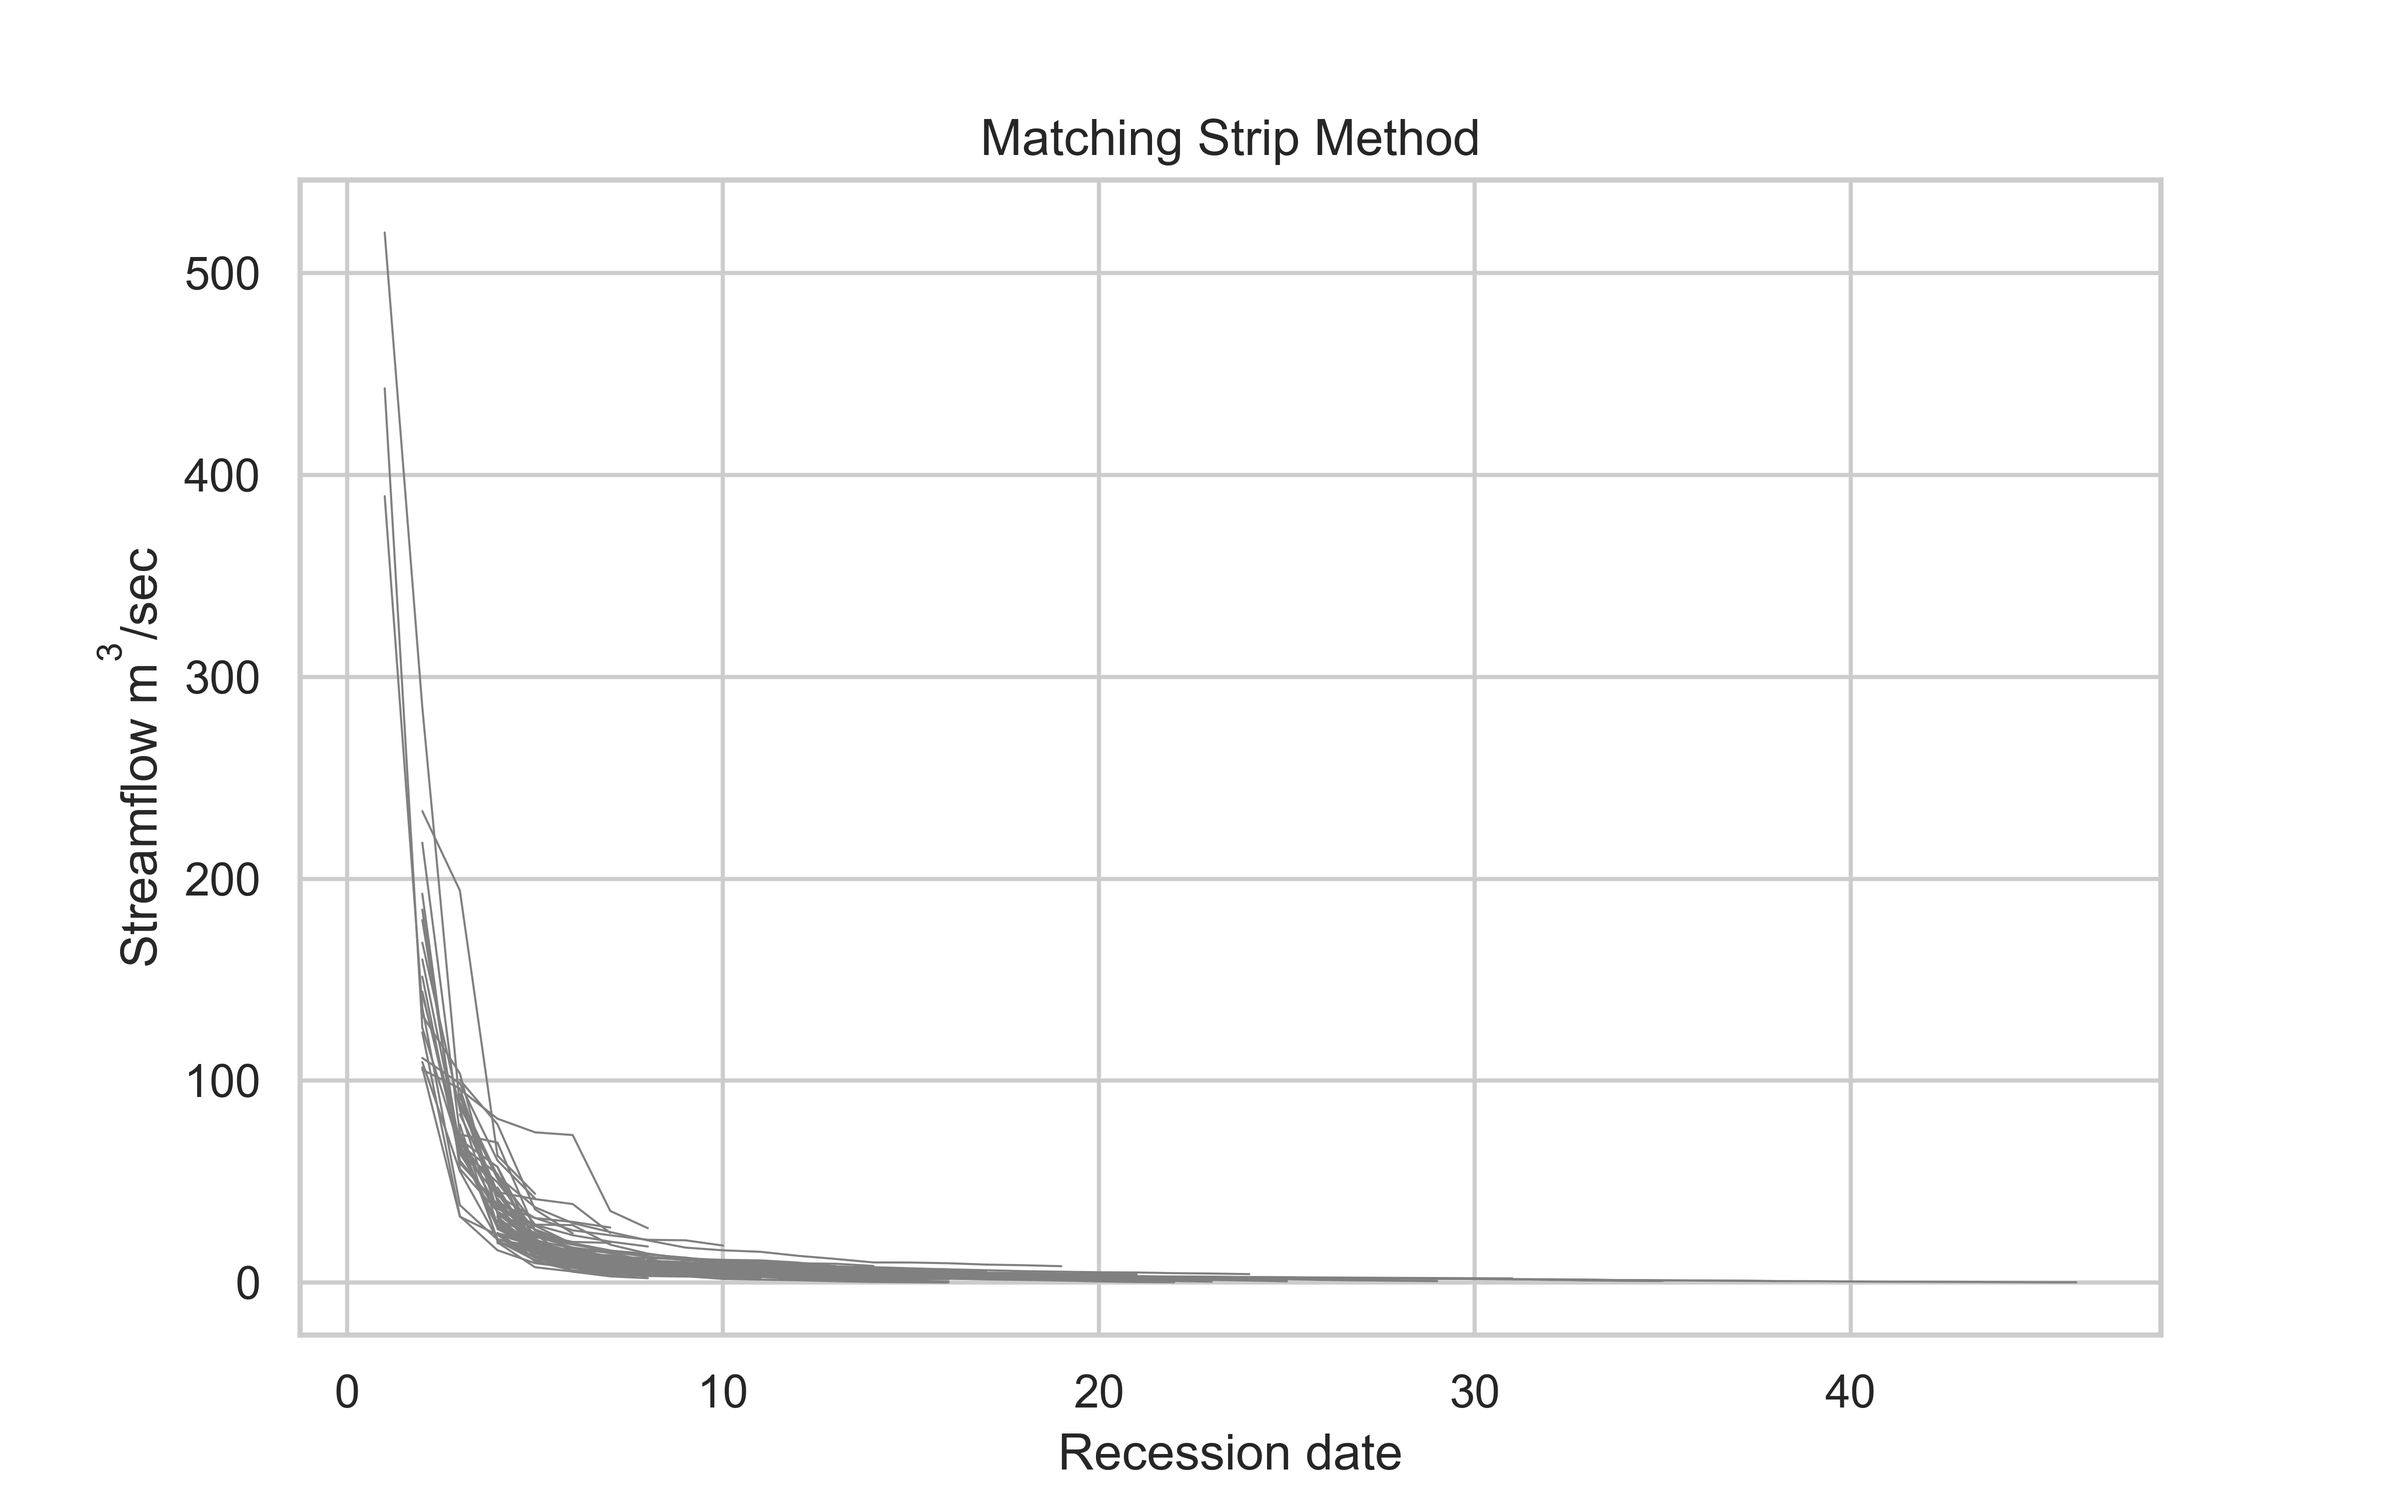
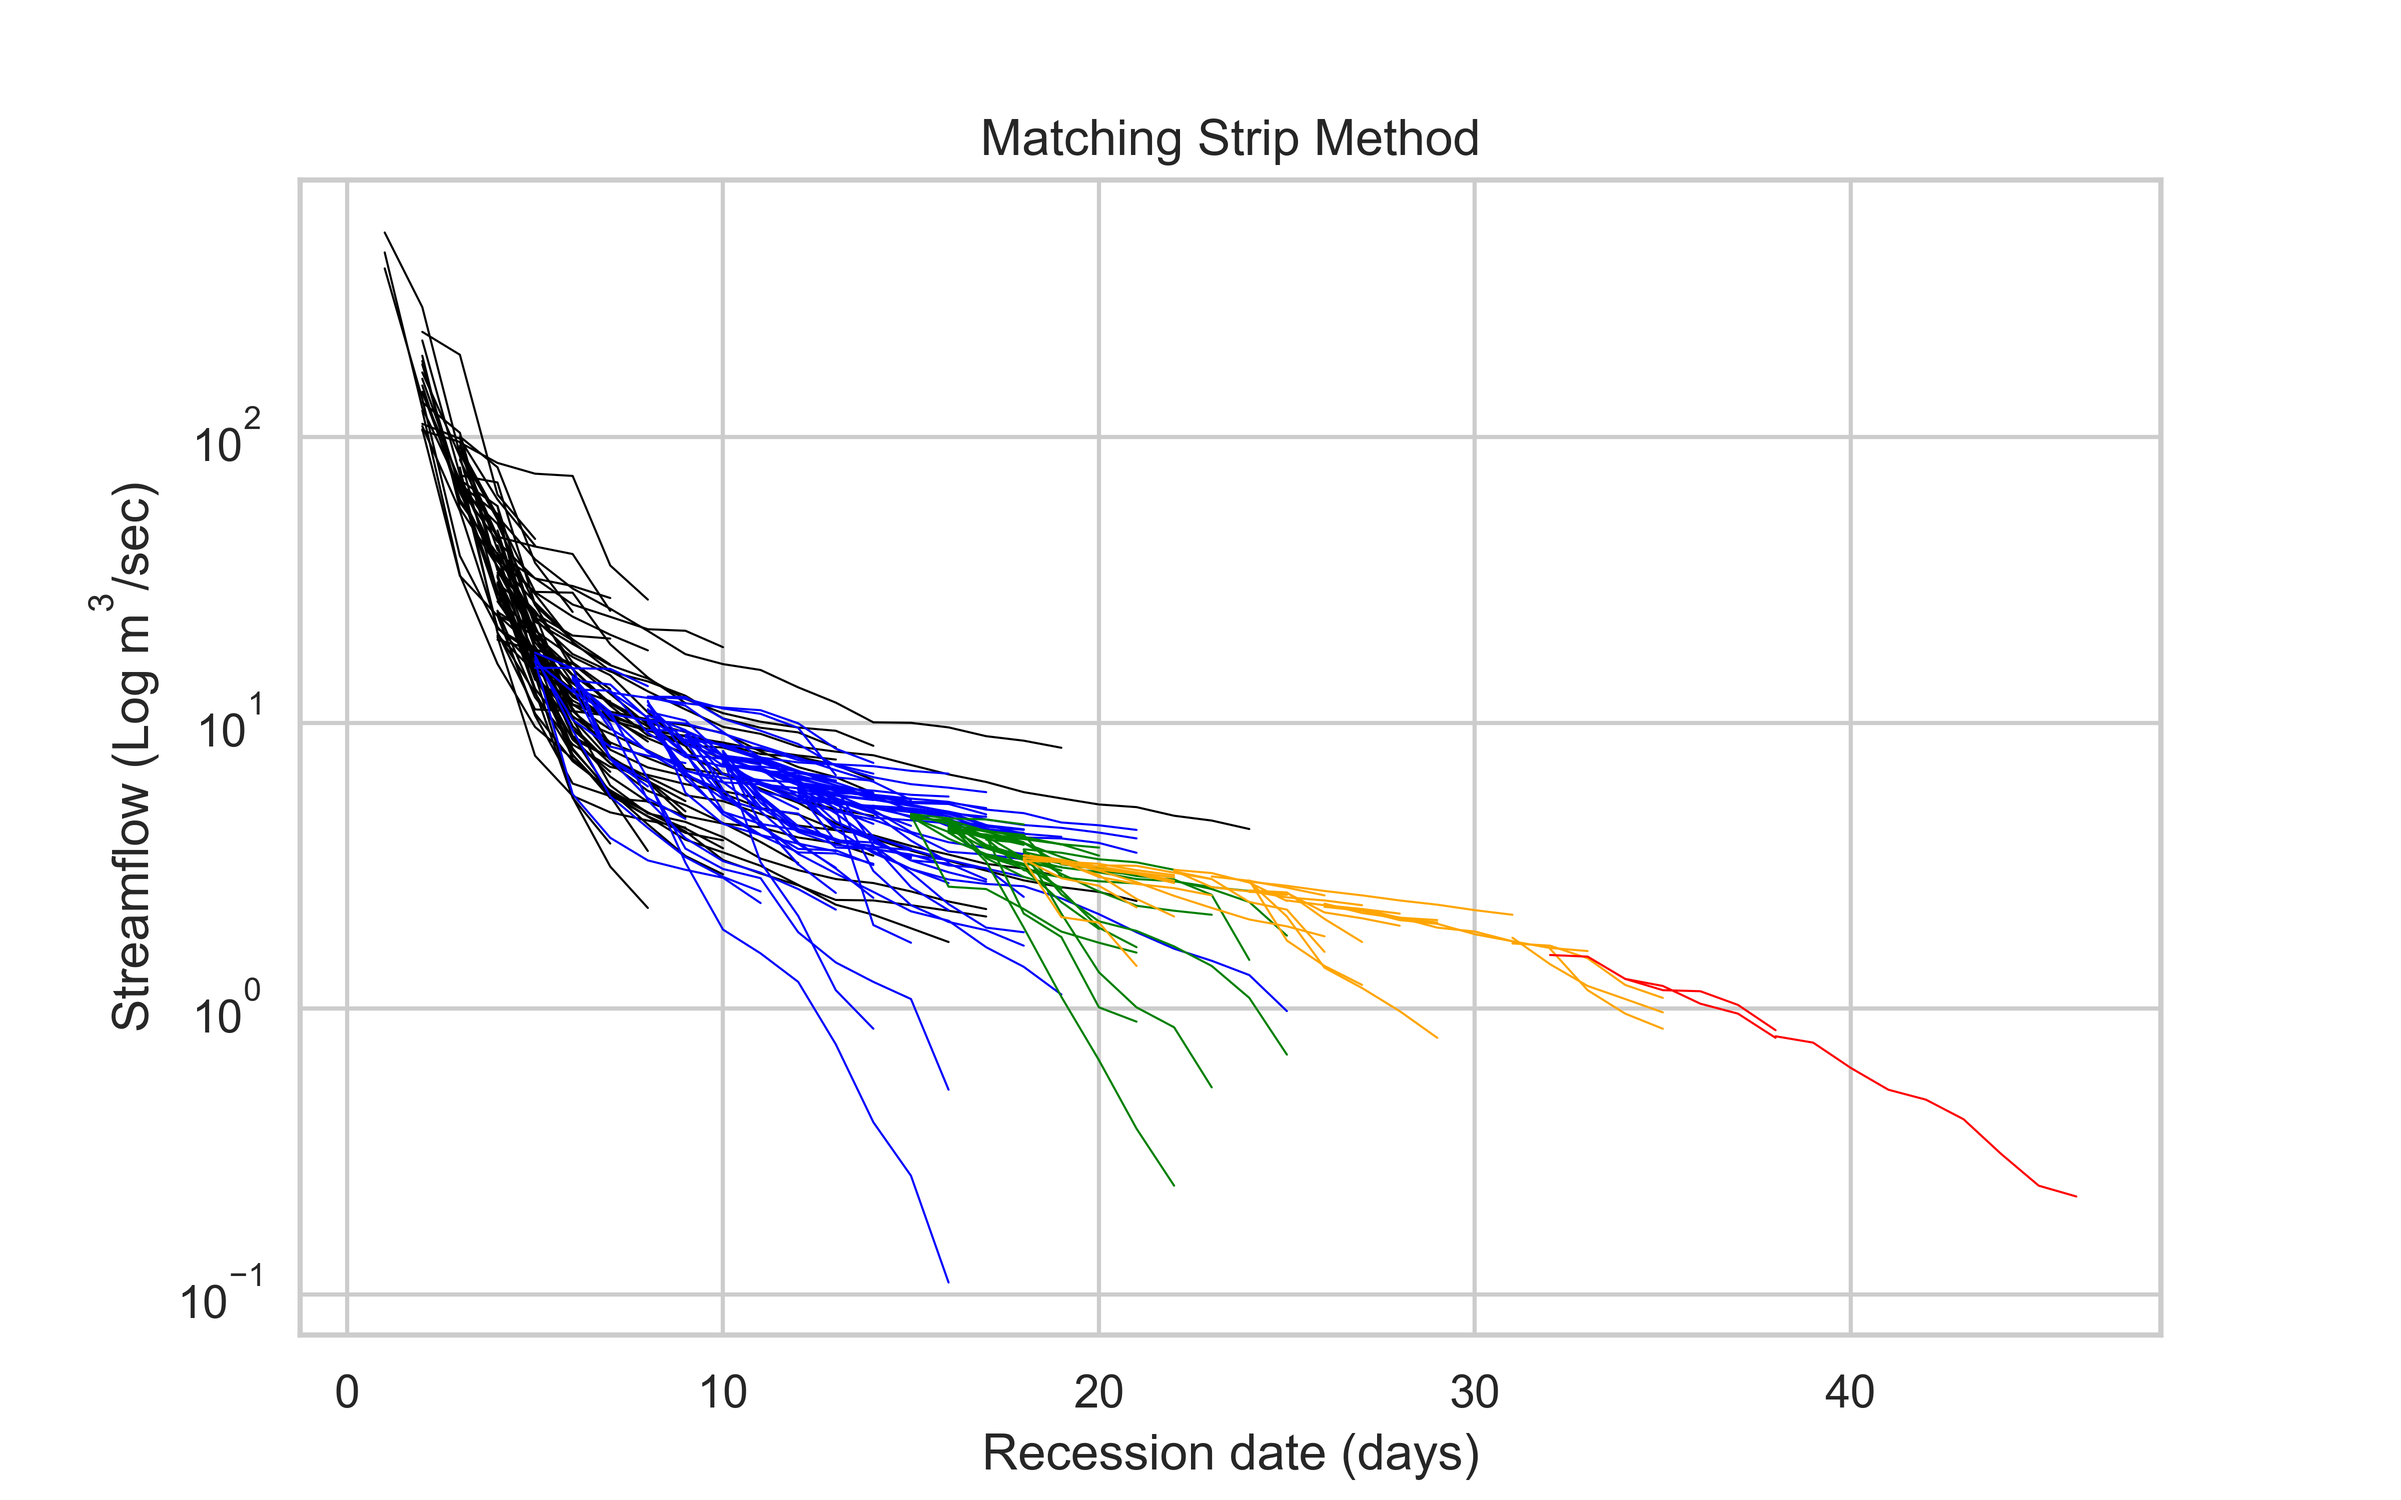
4th updated

diff --git a/engine/RecAnalysis.py b/engine/RecAnalysis.py
@@ -79,23 +79,39 @@ def match_strip_method(rec_list):
     return rec_list
 
 
-def msm_graph(rec_list):
+def msm_graph(rec_list, FDC_points):
     """_summary_
         this function is making graph for the matching strip method
     Args:
         rec_list (list): list of the recession curve with the recession date 
+        FDC_points (list): list of the FDC points from the streamflow data
     """
     # todo do the msm plot depends on the flow duration
     # figure size control
     plt.figure(figsize=(8,5))
 
+    def color_picker(peakflow, FDC_points):
+        # this funtion is in-function for the color picker
+        if peakflow > FDC_points[0]:
+            return 'black'
+        elif peakflow <= FDC_points[0] and peakflow > FDC_points[1]:
+            return 'blue'
+        elif peakflow <= FDC_points[1] and peakflow > FDC_points[2]:
+            return 'green'
+        elif peakflow <= FDC_points[2] and peakflow > FDC_points[3]:
+            return 'orange'
+        else:
+            return 'red'
+
+
     for i in range(len(rec_list)):
         x_values = [r[0] for r in rec_list[i]]
         y_values = [r[1] for r in rec_list[i]]
-        sns.lineplot(x=x_values,y=y_values,color='0.5',linewidth=0.5)
+        sns.lineplot(x=x_values,y=y_values,color=color_picker(rec_list[i][0][1], FDC_points),linewidth=0.5)
     
-    plt.xlabel('Recession date')
-    plt.ylabel('Streamflow $\mathregular{m^{3}}$/sec')
+    plt.yscale('log')
+    plt.xlabel('Recession date (days)')
+    plt.ylabel('Streamflow (Log $\mathregular{m^{3}}$/sec)')
     plt.title('Matching Strip Method')
     plt.savefig('MSM_fig.png',dpi=600)
 

diff --git a/engine/graphical_analysis.py b/engine/graphical_analysis.py
@@ -45,12 +45,13 @@ def fdc_plot(indata):
     MCpoint = np.percentile(flowdata,60,method='nearest')
     MFpoint = np.percentile(flowdata,40,method='nearest')
     DCpoint = np.percentile(flowdata,10,method='nearest')
+    
+    msg2 = ' FDC break points are below '
+    print (msg2.center(40,'-'))
     print(HFpoint,MCpoint,MFpoint,DCpoint)
-
 
     # // assign occurence to the each flow
     uniqueflow, flowcounts = np.unique(flowdata, return_counts=True)
-    print(uniqueflow)
     # convert flowcounts to the occurence
     for i in range(1,len(flowcounts)):
         flowcounts[i] = flowcounts[i-1]+flowcounts[i]
@@ -111,7 +112,6 @@ def fdc_plot(indata):
         avgflow.append([int(tempa[1]),int(tempa[0]),round(temp/count,4)])
     # arrange list by month-year
     avgflow.sort()
-    print(avgflow)
 
     # make the pcolormap
     x = np.arange(2009, 2009+len(avgflow)/12,1) # twelve months
@@ -120,12 +120,14 @@ def fdc_plot(indata):
     X, Y = np.meshgrid(x, y)
     z = np.array([i[2] for i in avgflow])
     Z = np.reshape(z, (len(y), len(x)))
-    print(Z)
-    print(type(x), type(y), type(Z))
-    
+
+
     # plot
     c = plt.pcolormesh(X, Y, Z, vmin=np.min(Z), vmax=np.max(Z), cmap='RdYlBu', shading='auto')
     plt.colorbar(c, label='Monthly Avg. Streamflow ($\mathregular{m^{3}}$/sec)')
     plt.xlabel('Year')
     plt.ylabel('Month')
     plt.savefig('Flowgram.png',dpi=600)
+
+
+    return [HFpoint,MCpoint,MFpoint,DCpoint]

diff --git a/engine/main.py b/engine/main.py
@@ -47,7 +47,7 @@ module 03
 graphical_analysis.py
 '''
 import graphical_analysis
-graphical_analysis.fdc_plot(indata)
+FDC_points = graphical_analysis.fdc_plot(indata)
 
 
 '''
@@ -57,13 +57,8 @@ RecAnalysis.py
 import RecAnalysis
 rec_list = RecAnalysis.find_rec(indata)
 rec_list = RecAnalysis.match_strip_method(rec_list)
-RecAnalysis.msm_graph(rec_list)
+RecAnalysis.msm_graph(rec_list, FDC_points)
 
 
 
-
-'''
-module 0#
-grapher.py
-'''
 
